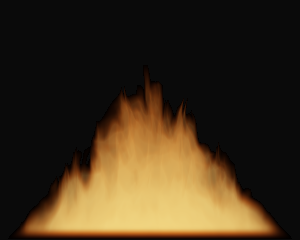
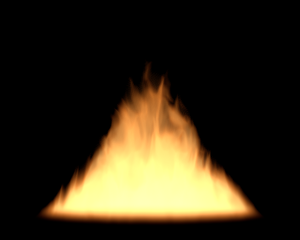
Fire write-up: accuracy pass, re-rendered diagrams, three-angle figure

diff --git a/Farsight_Fire.html b/Farsight_Fire.html
@@ -67,35 +67,42 @@
 <dd>Unity URP, HLSL</dd>
 </dl></header><article class="project-copy project-writeup">
 
-<figure class="project-figure"><img src="assets/img/farsight/techart/farsight-fire-volume.webp" alt="Fireplace flames in the living room" class="project-figure-image" decoding="async"></figure>
+<figure class="project-figure"><img src="assets/img/farsight/techart/farsight-fire-volume.webp" alt="Fireplace flames in the living room" class="project-figure-image" decoding="async"><figcaption>In game, with bloom.</figcaption></figure>
 
 <h3 class="project-section-title">The goal</h3>
 
-<p>You see the living room fireplace up close in a dark, quiet moment, so flat particle sprites would've looked fake. We wanted flames with actual volume that look right from any angle and sit properly behind the logs.</p>
+<p>You see the living room fireplace up close in a dark, quiet moment, so flat particle sprites would've looked fake. I wanted flames with actual volume that look right from any angle and sit properly behind the logs.</p>
 
 <h3 class="project-section-title">How it works</h3>
 <p>The flames are a shader that ray-marches through a box sitting over the logs. For every pixel it takes 22 steps through the box, and at each step it works out two things: how thick the fire is there, and how hot.</p>
 
 <h3 class="project-section-title">1. Shape</h3>
-<p>It starts with the footprint, an oval over the logs that narrows towards the top. On its own that's just a glowing cone. To break it up, we sample a 3D noise texture stretched tall and scrolling upwards, warped a bit so it swirls, and turned into ridges so you get separate strands.</p>
+<p>It starts with the footprint, an oval over the logs that narrows towards the top and fades out towards its edges. On its own that's just a glowing cone. To break it up, I sample a 3D noise texture (64 by 64 by 64, the same one my steam uses), stretched tall and scrolling upwards. The lookup position is first pushed around by another sample of the same noise, which is called domain warping and makes it swirl. The result is then folded into ridges (ridged noise), so you get separate strands.</p>
 <div class="project-figure"><img src="assets/img/farsight/fire/fire-1-foot-noise.png" alt="The tapered footprint and the stretched 3D noise, as slices through the box" class="project-figure-image" loading="lazy" decoding="async"><figcaption>The footprint, and the noise, as a slice through the middle of the box.</figcaption></div>
 <p>The trick that makes tongues is a cut-off that rises with height. Near the bottom almost any noise keeps the fire alight, but higher up it takes more and more, so only the strongest strands make it to the top.</p>
-<pre><code>float cut = h / _HeightFade;
+<pre><code>// the bar to clear: 0 at the base, rising with height
+float cut = h / _HeightFade;
+// 1.7 lifts the noise so the base clears the bar easily
+// _Sharpness sets how crisp the tongue edges are
 float d = saturate((noise * foot * 1.7 - cut) * _Sharpness);</code></pre>
+<p>Because the footprint fades towards its edges, the edges fail the cut-off sooner than the middle. That's why the overall shape is a cone, with the noise deciding where the tongues are.</p>
 
 <h3 class="project-section-title">2. Colour from temperature</h3>
-<p>Each point also gets a temperature, hottest at the roots and cooling as it rises. That picks a colour from a three-stop ramp: white-yellow, orange, then dark red at the tips. No textures are involved in the colour at all.</p>
+<p>Each point also gets a temperature. It's highest where the fire is thick and low down, and it drops as the flame rises or thins out, so the tips and the edges both run cooler. That picks a colour from a three-stop ramp: yellow, orange, then dark red. The hot end is stored brighter than the screen can show, so where many steps stack up the core burns out towards white. No textures are involved in the colour at all.</p>
 <div class="project-figure"><img src="assets/img/farsight/fire/fire-2-tongues-temp.png" alt="Density after the height cut-off, and the same slice coloured by temperature" class="project-figure-image" loading="lazy" decoding="async"><figcaption>After the cut-off, and coloured by temperature.</figcaption></div>
-<figure class="project-figure"><img src="assets/img/farsight/fire/fire-ramp.png" alt="The temperature colour ramp from dark red to white-yellow" class="project-figure-image" loading="lazy" decoding="async"><figcaption>The ramp, from cool tips to hot roots.</figcaption></figure>
+<figure class="project-figure"><img src="assets/img/farsight/fire/fire-ramp.png" alt="The temperature colour ramp from dark red to yellow" class="project-figure-image" loading="lazy" decoding="async"><figcaption>The ramp, from cool tips (left) to hot roots (right), scaled down to fit on screen.</figcaption></figure>
 
 <h3 class="project-section-title">3. Marching through the box</h3>
-<p>Stacking all 22 steps along each ray gives the final volume. The flames are mostly see-through, so each step only blocks a little of what's behind it, and the colours add up. The noise keeps scrolling upwards, so the whole thing licks and flickers.</p>
+<p>Stacking all 22 steps along each ray gives the final volume. The flames are mostly see-through, so each step only dims the fire behind it a little, and the colours add up. With so few steps you'd normally see bands, so each pixel starts its ray at a slightly different offset, which turns the bands into fine grain. The noise keeps scrolling upwards, so the tongues lick, and the overall brightness wobbles by up to about 12% on top of that.</p>
 <figure class="project-figure"><img src="assets/img/farsight/fire/fire-3-march.webp" alt="The full ray-marched flame volume, animated" class="project-figure-image" loading="lazy" decoding="async"><figcaption>The full volume, without the scene, bloom or the logs.</figcaption></figure>
+<p>Each step is at most three noise lookups. Steps outside the footprint skip them, and only the pixels the box covers on screen pay for any of it.</p>
+<p>Since it's a real volume and not a flat card, it holds up as you move around it.</p>
+<figure class="project-figure"><img src="assets/img/farsight/fire/fire-angles.png" alt="The flame volume seen from the front, from 45 degrees and from the side" class="project-figure-image" loading="lazy" decoding="async"><figcaption>The same moment from the front, at 45 degrees and from the side. The footprint is wider than it is deep.</figcaption></figure>
 
 <h3 class="project-section-title">4. Sitting in the scene</h3>
-<p>The shader only adds light, and bloom takes care of the glow. It also checks the scene's depth, so the logs and grate sit in front of the flames without any extra setup. It's driven by the same script as our steam and smoke, which can fade it in and out.</p>
+<p>The shader only adds light on top of the scene, so it never darkens what's behind it, and bloom takes care of the glow. Each ray also reads the camera's depth texture and stops where it hits the scene, so the logs and grate sit in front of the flames without any extra setup. The fire fades out over the last 3 cm before a surface, so there's no hard line where the two meet. It's driven by the same script as my steam and smoke, which can fade it in and out.</p>
 
-<p>The images on this page were rendered with a Python port of the shader, using the game's own 3D noise texture.</p>
+<p>The diagrams on this page were rendered with a Python port of the shader, using the game's own 3D noise texture and the fireplace's saved settings.</p>
 
 </article><nav class="project-pagination" aria-label="Project navigation"><a href="Farsight_Drawing.html" class="project-pagination-link project-pagination-link--previous"><span class="project-pagination-label">Previous write-up</span><strong>Texture Painting System</strong></a><a href="Farsight_Footprints.html" class="project-pagination-link project-pagination-link--next"><span class="project-pagination-label">Next write-up</span><strong>Wet Footprint Decals</strong></a></nav>
 </div></section></main><!-- End #main -->

diff --git a/scripts/fire.py b/scripts/fire.py
@@ -1,0 +1,126 @@
+# Diagrams for Farsight_Fire.html.
+# A port of the game's FireVolume.shader (Flame() and the march loop in frag()),
+# using the values saved in M_FireplaceFlames.mat, the fireplace's box size in the
+# scene, and the game's own 64x64x64 noise texture (SteamNoise3D.asset).
+# Usage: python3 scripts/fire.py <path/to/SteamNoise3D.asset>   (from the site root)
+import re, sys
+import numpy as np
+from PIL import Image
+
+OUT = 'assets/img/farsight/fire/'
+
+# M_FireplaceFlames.mat
+HOT, MID, COOL = np.array([2.6, 1.5, 0.45]), np.array([2.2, 0.62, 0.08]), np.array([0.8, 0.1, 0.02])
+INTENSITY, DENSITY, NOISE_SCALE, RISE, SWIRL = 0.65, 10.0, 24.0, 0.9, 0.8
+BASE_WIDTH, TAPER, HEIGHT_FADE, STEPS, FLICKER, SHARPNESS = 0.48, 0.3, 0.62, 22, 0.25, 6.0
+BOX = np.array([0.32, 0.5, 0.62])          # Fire Volume scale in the living room scene (m)
+
+def load_noise(path):
+    text = open(path).read()
+    data = bytes.fromhex(re.search(r'_typelessdata: ([0-9a-f]+)', text).group(1))
+    return np.frombuffer(data, np.uint8).reshape(64, 64, 64, 4).astype(np.float32) / 255.0   # [z, y, x, rgba]
+
+def sample(tex, uvw):                       # trilinear, repeat wrap
+    p = uvw * 64.0 - 0.5
+    i0 = np.floor(p).astype(np.int64); f = (p - i0).astype(np.float32)
+    out = 0
+    for dz in (0, 1):
+        for dy in (0, 1):
+            for dx in (0, 1):
+                w = (f[..., 0] if dx else 1 - f[..., 0]) * (f[..., 1] if dy else 1 - f[..., 1]) * (f[..., 2] if dz else 1 - f[..., 2])
+                out = out + w[..., None] * tex[(i0[..., 2] + dz) % 64, (i0[..., 1] + dy) % 64, (i0[..., 0] + dx) % 64]
+    return out
+
+def flame(tex, p, t):
+    """Flame() from the shader. p is in the box's [-0.5, 0.5]^3. Returns foot, noise, density, temperature."""
+    h = p[..., 1] + 0.5
+    w = BASE_WIDTH * (1 - TAPER * h)
+    foot = np.clip(1 - np.hypot(p[..., 0], p[..., 2]) / np.maximum(w, 1e-3), 0, 1)
+    q = p * BOX * NOISE_SCALE
+    q[..., 1] = (q[..., 1] - t * RISE * NOISE_SCALE) * 0.35
+    warp = sample(tex, q * 0.07 + np.array([0.2, 0.5, 0.8]))[..., [3, 1, 0]] - 0.5
+    q = q + warp * SWIRL * 3
+    n = sample(tex, q * 0.125)
+    n2 = sample(tex, q * 0.31 + 0.41)
+    ridge = 1 - np.abs(n[..., 0] * 2 - 1)
+    noise = ridge * 0.65 + n2[..., 1] * 0.35
+    cut = h / HEIGHT_FADE
+    d = np.clip((noise * foot * 1.7 - cut) * SHARPNESS, 0, 1)
+    d = d * np.clip(h / 0.06, 0, 1) ** 2 * (3 - 2 * np.clip(h / 0.06, 0, 1))      # smoothstep(0, 0.06, h)
+    d = np.where(foot > 0, d, 0)
+    temp = np.clip(d * (1.2 - h * 1.1), 0, 1)
+    return foot, noise, d, temp
+
+def ramp(temp):
+    k = temp[..., None]
+    return np.where(k < 0.5, COOL + (MID - COOL) * (k * 2), MID + (HOT - MID) * (k * 2 - 1))
+
+def to_srgb(lin):
+    lin = np.clip(lin, 0, 1)
+    return np.where(lin <= 0.0031308, lin * 12.92, 1.055 * lin ** (1 / 2.4) - 0.055)
+
+def save(lin, name, size=None):
+    im = Image.fromarray((to_srgb(lin) * 255 + 0.5).astype(np.uint8))
+    if size: im = im.resize(size, Image.LANCZOS)
+    im.save(OUT + name); return im
+
+def slice_points(w, h):                     # the box's middle slice, seen along its thin axis
+    z, y = np.meshgrid(np.linspace(-0.5, 0.5, w), np.linspace(0.5, -0.5, h))
+    return np.stack([np.zeros_like(z), y, z], -1)
+
+def march(tex, t, w, h, angle_deg, dist=1.9, fill=0.82):
+    """frag() from the shader, with no scene behind it. Camera orbits the box at `dist` metres."""
+    a = np.radians(angle_deg)
+    cam = np.array([np.cos(a), 0.0, np.sin(a)]) * dist
+    fwd = -cam / dist; right = np.array([-fwd[2], 0, fwd[0]]); up = np.array([0.0, 1.0, 0.0])
+    half_h = (BOX[1] / fill) / 2 / dist
+    px, py = np.meshgrid(np.arange(w) + 0.5, np.arange(h) + 0.5)
+    sx = (px / w * 2 - 1) * half_h * w / h; sy = (1 - py / h * 2) * half_h
+    rd = fwd + sx[..., None] * right + sy[..., None] * up
+    rd /= np.linalg.norm(rd, axis=-1, keepdims=True)
+    ro, rdo = cam / BOX, rd / BOX                                   # world -> box space
+    inv = 1.0 / np.where(np.abs(rdo) < 1e-9, 1e-9, rdo)
+    t0, t1 = (-0.5 - ro) * inv, (0.5 - ro) * inv
+    near = np.maximum(np.minimum(t0, t1).max(-1), 0); far = np.maximum(t0, t1).min(-1)
+    hit = far > near
+    step = np.where(hit, (far - near) / STEPS, 0)
+    ign = np.modf(52.9829189 * np.modf(px * 0.06711056 + py * 0.00583715)[0])[0]   # InterleavedGradientNoise
+    tt = near + step * ign
+    light = np.zeros((h, w, 3)); trans = np.ones((h, w))
+    for _ in range(STEPS):
+        _, _, d, temp = flame(tex, ro + rdo * tt[..., None], t)
+        alpha = 1 - np.exp(-d * DENSITY * step)
+        light += (trans * alpha)[..., None] * ramp(temp)
+        trans *= 1 - alpha * 0.35
+        tt = tt + step
+    flick = 1 + FLICKER * (np.sin(t * 13.1) * 0.5 + np.sin(t * 7.3 + 1.7) * 0.3 + np.sin(t * 23.7) * 0.2) * 0.5
+    return np.where(hit[..., None], light * INTENSITY * flick, 0)
+
+def side_by_side(panels, gap=8, bg=1.0):
+    h = panels[0].shape[0]
+    out = [panels[0]]
+    for p in panels[1:]: out += [np.full((h, gap, 3), bg), p]
+    return np.concatenate(out, 1)
+
+if __name__ == '__main__':
+    tex = load_noise(sys.argv[1])
+    T, SS = 3.0, 2
+    W, H = 300 * SS, 240 * SS
+
+    foot, noise, d, temp = flame(tex, slice_points(W, H), T)
+    grey = lambda v: np.repeat(v[..., None], 3, -1) ** 2.2          # shown as plain values, not light
+    save(side_by_side([grey(foot), grey(np.where(foot > 0, noise, 0))], 8 * SS), 'fire-1-foot-noise.png', (608, 240))
+    save(side_by_side([grey(d), ramp(temp) / HOT.max() * d[..., None]], 8 * SS), 'fire-2-tongues-temp.png', (608, 240))
+
+    k = np.tile(np.linspace(0, 1, 608), (40, 1))
+    save(ramp(k) / HOT.max(), 'fire-ramp.png')                      # scaled so the brightest stop fits on screen
+
+    views = [march(tex, T, 200 * SS, 240 * SS, a, fill=0.6) for a in (0, 45, 90)]
+    save(side_by_side(views, 4 * SS, 0.0), 'fire-angles.png', (608, 240))
+
+    frames = []
+    for i in range(36):
+        f = march(tex, T + i / 12, W, H, 0)
+        frames.append(Image.fromarray((to_srgb(f) * 255 + 0.5).astype(np.uint8)).resize((300, 240), Image.LANCZOS))
+    frames[0].save(OUT + 'fire-3-march.webp', save_all=True, append_images=frames[1:], duration=83, loop=0, quality=80)
+    frames[0].save(OUT + 'fire-3-march.png')
